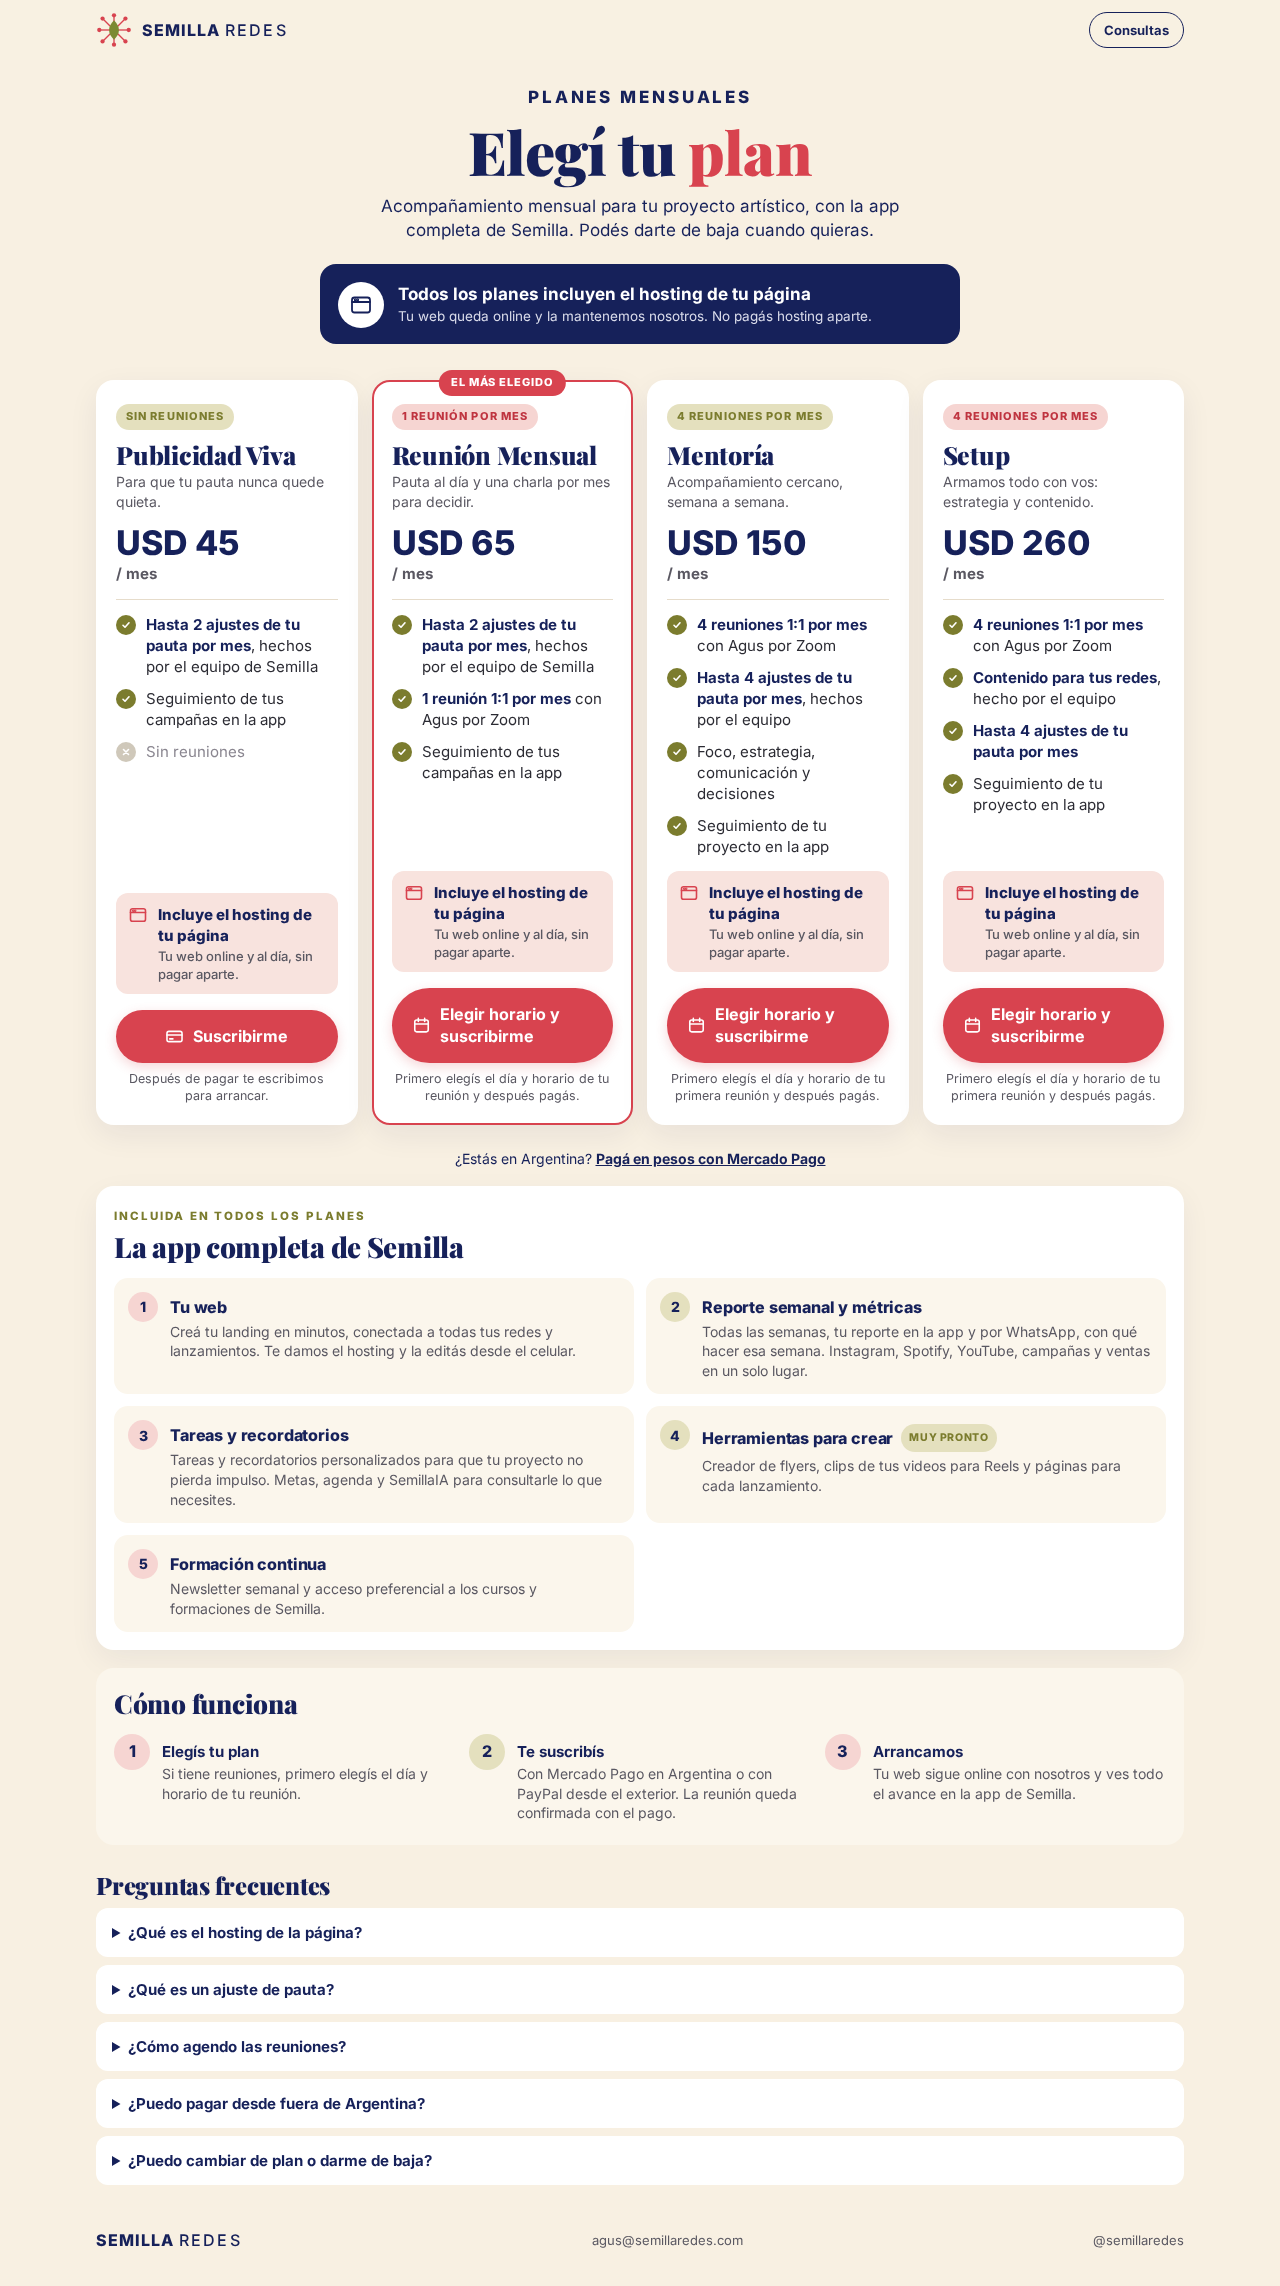
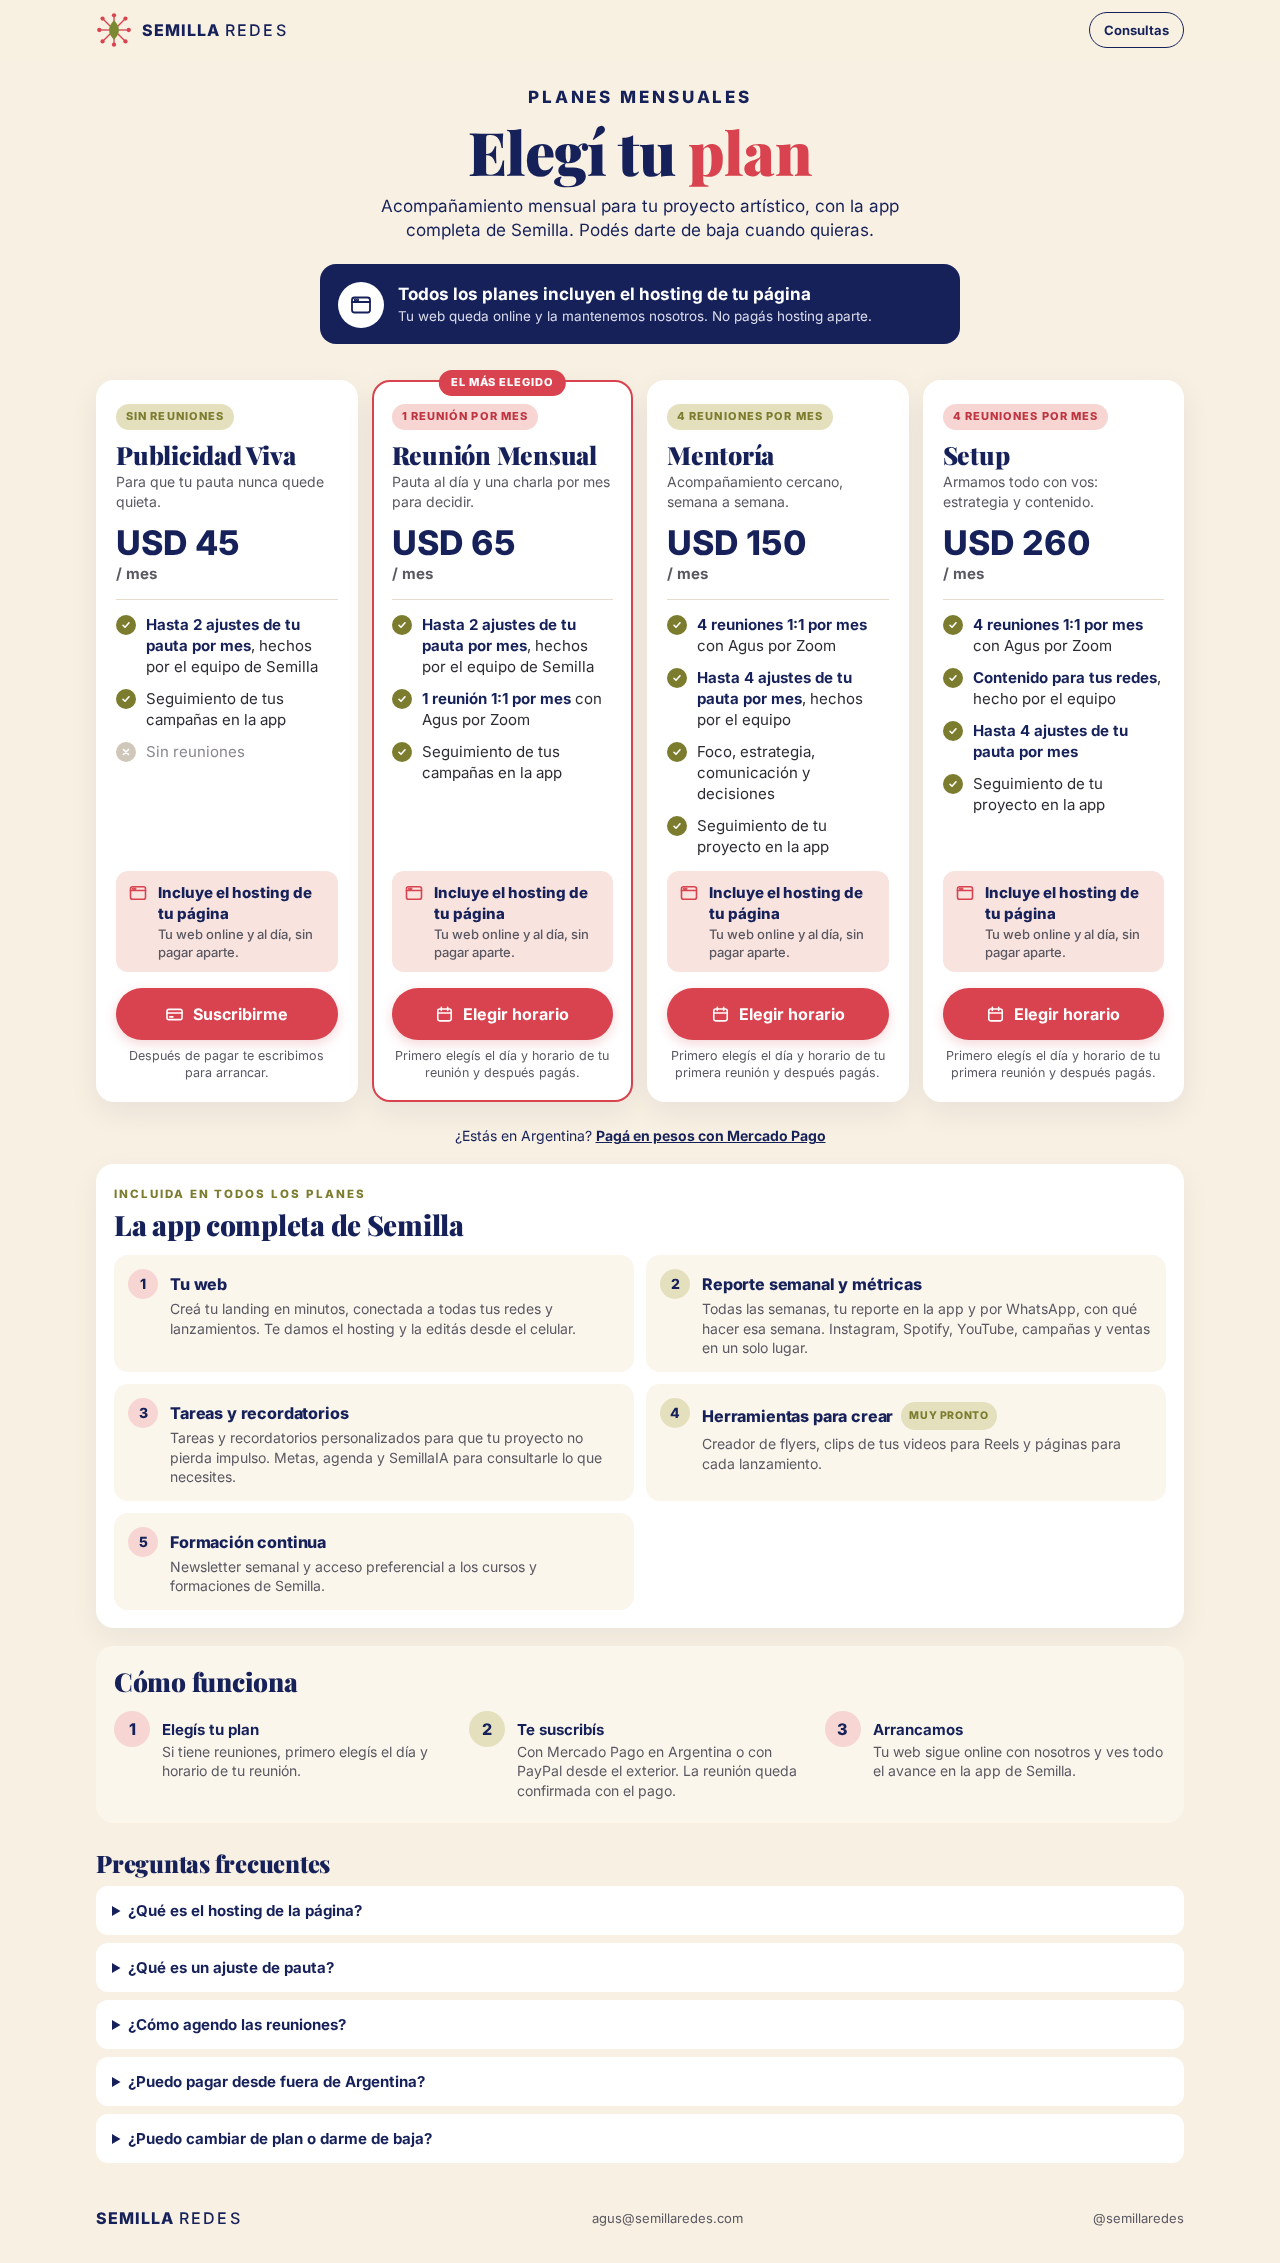
prev

diff --git a/planes/index.html b/planes/index.html
@@ -184,7 +184,7 @@ footer .wrap{display:flex;justify-content:space-between;align-items:center;gap:1
     <ul class="lista"><li class="si"><span class="ck"><svg viewBox="0 0 24 24"><path d="M6 12.5l4 4 8-9"/></svg></span><span><b>Hasta 2 ajustes de tu pauta por mes</b>, hechos por el equipo de Semilla</span></li><li class="si"><span class="ck"><svg viewBox="0 0 24 24"><path d="M6 12.5l4 4 8-9"/></svg></span><span><b>1 reunión 1:1 por mes</b> con Agus por Zoom</span></li><li class="si"><span class="ck"><svg viewBox="0 0 24 24"><path d="M6 12.5l4 4 8-9"/></svg></span><span>Seguimiento de tus campañas en la app</span></li></ul>
     <div class="web"><svg viewBox="0 0 24 24"><rect x="3" y="4.5" width="18" height="15" rx="2.5"/><path d="M3 9h18"/><circle cx="6.3" cy="6.8" r=".6"/><circle cx="8.6" cy="6.8" r=".6"/></svg><div>Incluye el hosting de tu página<span>Tu web online y al día, sin pagar aparte.</span></div></div>
     <div class="acciones">
-      <a class="btn btn-red" href="https://www.mercadopago.com.ar/subscriptions/checkout?preapproval_plan_id=4a8278db20594bb6835b022f54113027" data-plan="reunion_mensual" data-nombre="Reunión Mensual" data-reu="1" data-monto="90000" data-usd="65"><svg viewBox="0 0 24 24"><rect x="3.5" y="5" width="17" height="15" rx="2.5"/><path d="M3.5 10h17M8 3v4M16 3v4"/></svg>Elegir horario y suscribirme</a>
+      <a class="btn btn-red" href="https://www.mercadopago.com.ar/subscriptions/checkout?preapproval_plan_id=4a8278db20594bb6835b022f54113027" data-plan="reunion_mensual" data-nombre="Reunión Mensual" data-reu="1" data-monto="90000" data-usd="65"><svg viewBox="0 0 24 24"><rect x="3.5" y="5" width="17" height="15" rx="2.5"/><path d="M3.5 10h17M8 3v4M16 3v4"/></svg>Elegir horario</a>
       <p class="nota">Primero elegís el día y horario de tu reunión y después pagás.</p>
     </div>
   </article>
@@ -196,7 +196,7 @@ footer .wrap{display:flex;justify-content:space-between;align-items:center;gap:1
     <ul class="lista"><li class="si"><span class="ck"><svg viewBox="0 0 24 24"><path d="M6 12.5l4 4 8-9"/></svg></span><span><b>4 reuniones 1:1 por mes</b> con Agus por Zoom</span></li><li class="si"><span class="ck"><svg viewBox="0 0 24 24"><path d="M6 12.5l4 4 8-9"/></svg></span><span><b>Hasta 4 ajustes de tu pauta por mes</b>, hechos por el equipo</span></li><li class="si"><span class="ck"><svg viewBox="0 0 24 24"><path d="M6 12.5l4 4 8-9"/></svg></span><span>Foco, estrategia, comunicación y decisiones</span></li><li class="si"><span class="ck"><svg viewBox="0 0 24 24"><path d="M6 12.5l4 4 8-9"/></svg></span><span>Seguimiento de tu proyecto en la app</span></li></ul>
     <div class="web"><svg viewBox="0 0 24 24"><rect x="3" y="4.5" width="18" height="15" rx="2.5"/><path d="M3 9h18"/><circle cx="6.3" cy="6.8" r=".6"/><circle cx="8.6" cy="6.8" r=".6"/></svg><div>Incluye el hosting de tu página<span>Tu web online y al día, sin pagar aparte.</span></div></div>
     <div class="acciones">
-      <a class="btn btn-red" href="https://www.mercadopago.com.ar/subscriptions/checkout?preapproval_plan_id=868d73391ef84f9b9a25ec06857e663e" data-plan="mentoria" data-nombre="Mentoría" data-reu="4" data-monto="200000" data-usd="150"><svg viewBox="0 0 24 24"><rect x="3.5" y="5" width="17" height="15" rx="2.5"/><path d="M3.5 10h17M8 3v4M16 3v4"/></svg>Elegir horario y suscribirme</a>
+      <a class="btn btn-red" href="https://www.mercadopago.com.ar/subscriptions/checkout?preapproval_plan_id=868d73391ef84f9b9a25ec06857e663e" data-plan="mentoria" data-nombre="Mentoría" data-reu="4" data-monto="200000" data-usd="150"><svg viewBox="0 0 24 24"><rect x="3.5" y="5" width="17" height="15" rx="2.5"/><path d="M3.5 10h17M8 3v4M16 3v4"/></svg>Elegir horario</a>
       <p class="nota">Primero elegís el día y horario de tu primera reunión y después pagás.</p>
     </div>
   </article>
@@ -208,7 +208,7 @@ footer .wrap{display:flex;justify-content:space-between;align-items:center;gap:1
     <ul class="lista"><li class="si"><span class="ck"><svg viewBox="0 0 24 24"><path d="M6 12.5l4 4 8-9"/></svg></span><span><b>4 reuniones 1:1 por mes</b> con Agus por Zoom</span></li><li class="si"><span class="ck"><svg viewBox="0 0 24 24"><path d="M6 12.5l4 4 8-9"/></svg></span><span><b>Contenido para tus redes</b>, hecho por el equipo</span></li><li class="si"><span class="ck"><svg viewBox="0 0 24 24"><path d="M6 12.5l4 4 8-9"/></svg></span><span><b>Hasta 4 ajustes de tu pauta por mes</b></span></li><li class="si"><span class="ck"><svg viewBox="0 0 24 24"><path d="M6 12.5l4 4 8-9"/></svg></span><span>Seguimiento de tu proyecto en la app</span></li></ul>
     <div class="web"><svg viewBox="0 0 24 24"><rect x="3" y="4.5" width="18" height="15" rx="2.5"/><path d="M3 9h18"/><circle cx="6.3" cy="6.8" r=".6"/><circle cx="8.6" cy="6.8" r=".6"/></svg><div>Incluye el hosting de tu página<span>Tu web online y al día, sin pagar aparte.</span></div></div>
     <div class="acciones">
-      <a class="btn btn-red" href="https://www.mercadopago.com.ar/subscriptions/checkout?preapproval_plan_id=66d66ef24caf441a84ae403cd8b77fec" data-plan="setup_inicial" data-nombre="Setup" data-reu="4" data-monto="350000" data-usd="260"><svg viewBox="0 0 24 24"><rect x="3.5" y="5" width="17" height="15" rx="2.5"/><path d="M3.5 10h17M8 3v4M16 3v4"/></svg>Elegir horario y suscribirme</a>
+      <a class="btn btn-red" href="https://www.mercadopago.com.ar/subscriptions/checkout?preapproval_plan_id=66d66ef24caf441a84ae403cd8b77fec" data-plan="setup_inicial" data-nombre="Setup" data-reu="4" data-monto="350000" data-usd="260"><svg viewBox="0 0 24 24"><rect x="3.5" y="5" width="17" height="15" rx="2.5"/><path d="M3.5 10h17M8 3v4M16 3v4"/></svg>Elegir horario</a>
       <p class="nota">Primero elegís el día y horario de tu primera reunión y después pagás.</p>
     </div>
   </article>

diff --git a/planes/_build.py b/planes/_build.py
@@ -165,7 +165,7 @@ def card(p):
     cinta = '<span class="cinta">El más elegido</span>' if p.get("destacado") else ""
     if p["reuniones"]:
         nota = f'Primero elegís el día y horario de tu {"reunión" if p["reuniones"]==1 else "primera reunión"} y después pagás.'
-        boton = "Elegir horario y suscribirme"
+        boton = "Elegir horario"
     else:
         nota = "Después de pagar te escribimos para arrancar."
         boton = "Suscribirme"
